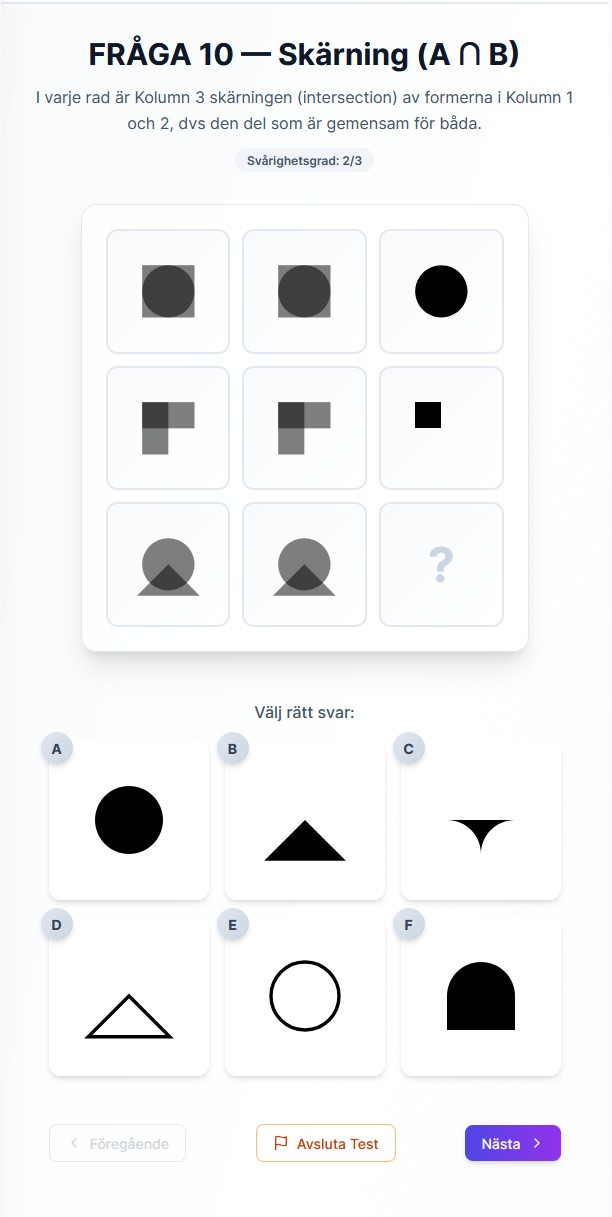
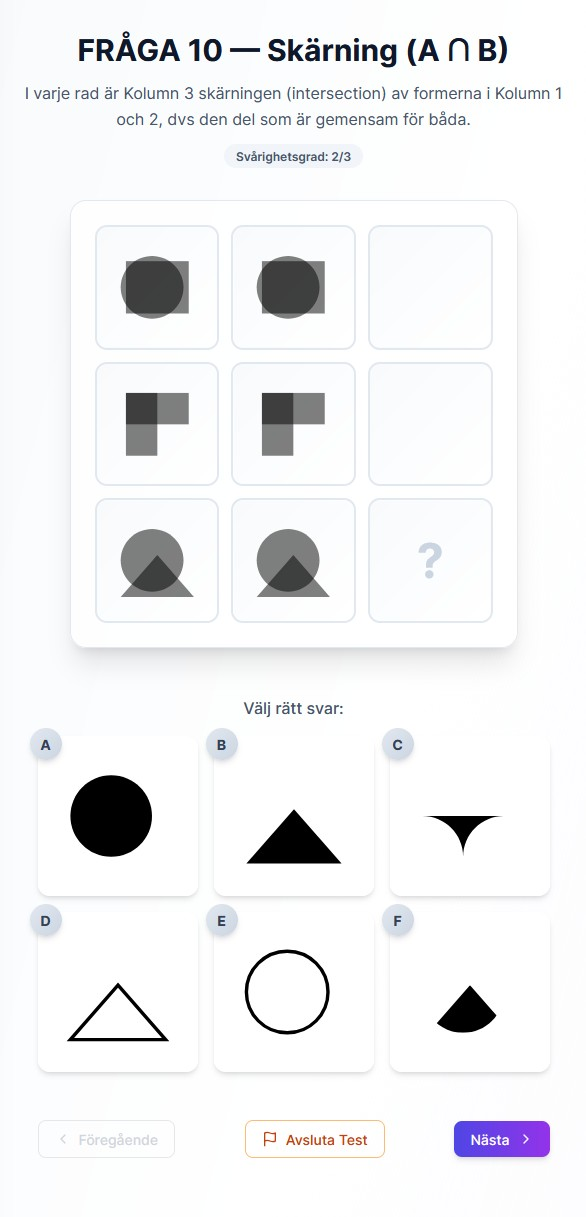
REFACTOR: Omdesign av Fråga 10 med enkel contained_intersection
Ersatte komplex clipPath-baserad skärning med en enkel, återanvändbar "contained intersection"-modell där en liten form är innesluten i en stor form.

Ändringar:
- Ny type: ContainedIntersection med outer/inner/showBoth/fill properties
- Enkel renderer med separata outerShapes (stora) och innerShapes (små)
- Kolumn 1-2: Visar båda former med opacity (0.3 + 0.7) för tydlig överlappning
- Kolumn 3: Visar endast den inre formen (= skärningen)
- Uppdaterad questionBank Q10 med nya formkombinationer
- Uppdaterad signature-funktion

Fördelar:
- Matematiskt korrekt (när form B är helt i A, är A ∩ B = B)
- Enkel att implementera och underhålla
- Visuellt tydlig med opacity-overlay
- Återanvändbar design för framtida tester
- Stödjer rect, circle, triangle, diamond

🤖 Generated with [Claude Code](https://claude.com/claude-code)

diff --git a/src/lib/logicTestV4/renderers.v4.tsx b/src/lib/logicTestV4/renderers.v4.tsx
@@ -134,91 +134,51 @@ export const SvgCellV4: React.FC<{ cell: Cell }> = ({ cell }) => {
       // Apply rotation if specified
       return cell.rotation ? rotate(cell.rotation, content) : content;
     }
-    case 'intersection': {
-        const shapes: Record<string, React.ReactElement> = {
-            // Enskilda former - centrerade och stora för tydliga överlappningar
-            rect_full: <rect x="20" y="25" width="60" height="50" />,
-            circle: <circle cx="45" cy="50" r="30" />,
-            rect_top: <rect x="20" y="20" width="60" height="30" />,
-            rect_left: <rect x="20" y="20" width="30" height="60" />,
-            rect_top_left: <rect x="20" y="20" width="30" height="30" />,
-            rect_diag: <path d="M20,20 L80,80 V20 H20Z" />,
-            tri_bottom: <path d="M50 45 L15 85 H85 Z" />,
-            circle_half_bottom: <path d="M45,80 A30,30 0 0 0 15,50 H75 A30,30 0 0 0 45,80Z" />,
-            segment: <path d="M45,20 A30,30 0,0,1,75,50 V80 H15 V50 A30,30 0,0,1,45,20Z" />,
+    case 'contained_intersection': {
+        const outerShapes: Record<string, React.ReactElement> = {
+            rect: <rect x="15" y="15" width="70" height="70" />,
+            circle: <circle cx="50" cy="50" r="35" />,
+            triangle: <path d="M50 15 L85 85 L15 85 Z" />
+        };
+
+        const innerShapes: Record<string, React.ReactElement> = {
+            rect: <rect x="35" y="35" width="30" height="30" />,
+            circle: <circle cx="50" cy="50" r="15" />,
+            triangle: <path d="M50 30 L70 70 L30 70 Z" />,
+            diamond: <path d="M50 30 L70 50 L50 70 L30 50 Z" />
         };
 
         const fill = cell.fill === 'none' ? FILL_NONE : FILL_BLACK;
         const stroke = fill === FILL_NONE ? STROKE_COLOR : 'none';
 
-        // Om shape2 finns: Visa båda formerna med opacity (för att visa överlappning)
-        if (cell.shape2) {
-            const shape1_elem = shapes[cell.shape1];
-            const shape2_elem = shapes[cell.shape2];
+        // Om showBoth=true: Visa båda formerna med opacity (kolumn 1-2)
+        if (cell.showBoth) {
+            const outerElem = outerShapes[cell.outer];
+            const innerElem = innerShapes[cell.inner];
 
-            if (!shape1_elem || !shape2_elem) return null;
+            if (!outerElem || !innerElem) return null;
 
             return (
                 <>
-                    {React.cloneElement(shape1_elem as React.ReactElement<any>, {
+                    {React.cloneElement(outerElem as React.ReactElement<any>, {
                         fill: FILL_BLACK,
                         stroke: 'none',
-                        opacity: 0.5
+                        opacity: 0.3
                     })}
-                    {React.cloneElement(shape2_elem as React.ReactElement<any>, {
+                    {React.cloneElement(innerElem as React.ReactElement<any>, {
                         fill: FILL_BLACK,
                         stroke: 'none',
-                        opacity: 0.5
+                        opacity: 0.7
                     })}
                 </>
             );
         }
 
-        // För intersection-resultat (kolumn 3): Använd clipPath för korrekt skärning
-        if (cell.shape1.endsWith('_int')) {
-            // Extrahera ursprungsformer från namnet (t.ex. "rect_circle_int" -> ["rect_full", "circle"])
-            const parts = cell.shape1.replace('_int', '').split('_');
-            let shape1Key = parts[0];
-            let shape2Key = parts.slice(1).join('_');
+        // Annars: Visa bara den inre formen (kolumn 3 = resultatet av skärningen)
+        const innerElem = innerShapes[cell.inner];
+        if (!innerElem) return null;
 
-            // Konvertera till rätt keys
-            if (shape1Key === 'rect' && !shape2Key.startsWith('circle')) shape1Key = 'rect_full';
-            if (shape2Key === 'top') { shape1Key = 'rect_top'; shape2Key = 'rect_left'; }
-            if (shape2Key === 'tri') shape2Key = 'tri_bottom';
-
-            const shape1_elem = shapes[shape1Key];
-            const shape2_elem = shapes[shape2Key];
-
-            if (!shape1_elem || !shape2_elem) {
-                // Fallback till enkel rendering om vi inte kan hitta formerna
-                const shape_elem = shapes[cell.shape1];
-                if (!shape_elem) return null;
-                return React.cloneElement(shape_elem as React.ReactElement<any>, { fill, stroke, strokeWidth: STROKE_WIDTH });
-            }
-
-            const clipId = `clip-${cell.shape1}-${Math.random().toString(36).substr(2, 9)}`;
-
-            return (
-                <>
-                    <defs>
-                        <clipPath id={clipId}>
-                            {shape2_elem}
-                        </clipPath>
-                    </defs>
-                    {React.cloneElement(shape1_elem as React.ReactElement<any>, {
-                        fill,
-                        stroke: 'none',
-                        clipPath: `url(#${clipId})`
-                    })}
-                </>
-            );
-        }
-
-        // Rita formen från shapes-mappningen (för svarsalternativ)
-        const shape_elem = shapes[cell.shape1];
-        if (!shape_elem) return null;
-
-        return React.cloneElement(shape_elem as React.ReactElement<any>, {
+        return React.cloneElement(innerElem as React.ReactElement<any>, {
             fill,
             stroke,
             strokeWidth: STROKE_WIDTH

diff --git a/src/lib/logicTestV4/types.v4.ts b/src/lib/logicTestV4/types.v4.ts
@@ -30,8 +30,14 @@ export type Endpoints = { kind: 'endpoints'; count: 0 | 2 | 3 | 4; shape?: strin
 // Q9: Vertikal spegling
 export type ReflectedShape = { kind: 'hook' | 'arc' | 'wedge'; mirror_v?: boolean; mirror_h?: boolean, rotation?: Angle };
 
-// Q10: Skärning mellan former
-export type Intersection = { kind: 'intersection'; shape1: string; shape2?: string; fill?: 'none' | 'black' };
+// Q10: Skärning mellan former (innesluten intersection)
+export type ContainedIntersection = {
+  kind: 'contained_intersection';
+  outer: 'rect' | 'circle' | 'triangle';
+  inner: 'rect' | 'circle' | 'triangle' | 'diamond';
+  showBoth?: boolean;
+  fill?: 'none' | 'black';
+};
 
 // Q11: Kretsande prick
 export type OrbitalDot = { kind: 'orbital_dot'; step: number };
@@ -52,9 +58,9 @@ export type Sudoku = { kind: 'sudoku'; shape: 'arrow'|'plus'|'moon'; fill: 'blac
 export type Sweep = { kind: 'sweep'; steps: 1 | 2 | 3 | 4; rotation?: Angle };
 
 // --- HUVUDTYP OCH FRÅGESTruktur ---
-export type Cell = 
-  | Dot | LShape | Icon | Fill | CornerDot | Lines | ShadedShape | Endpoints 
-  | ReflectedShape | Intersection | OrbitalDot | Swap | SizedShape | Subtraction | Sudoku | Sweep;
+export type Cell =
+  | Dot | LShape | Icon | Fill | CornerDot | Lines | ShadedShape | Endpoints
+  | ReflectedShape | ContainedIntersection | OrbitalDot | Swap | SizedShape | Subtraction | Sudoku | Sweep;
 
 export type Question = {
   id: string;

diff --git a/src/lib/logicTestV4/signatures.v4.ts b/src/lib/logicTestV4/signatures.v4.ts
@@ -36,8 +36,8 @@ export const signature = (cell: Cell): string => {
     case 'arc':
     case 'wedge':
         return `reflect:${cell.kind}:${cell.mirror_v ? 1:0}:${cell.mirror_h ? 1:0}:${((cell.rotation ?? 0) % 360 + 360) % 360}`;
-    case 'intersection':
-        return `intersect:${cell.shape1}:${cell.fill ?? 'black'}`;
+    case 'contained_intersection':
+        return `contained_intersect:${cell.outer}:${cell.inner}:${cell.fill ?? 'black'}`;
     case 'orbital_dot':
         return `orbital:${cell.step % 8}`; // Modulo 8 eftersom 8*45=360
     case 'swap':